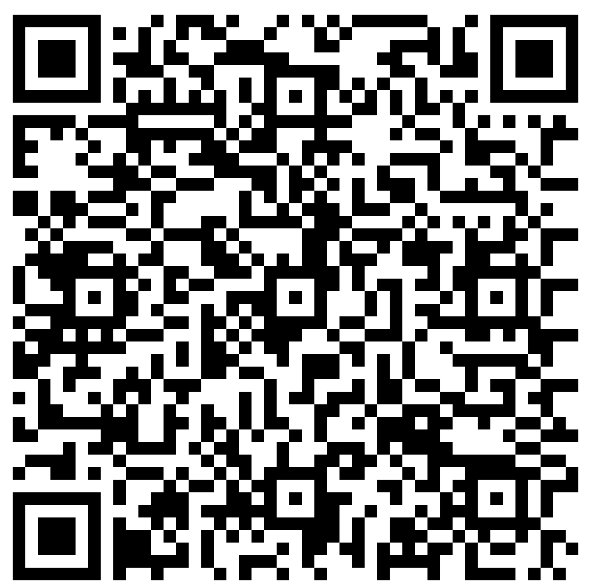
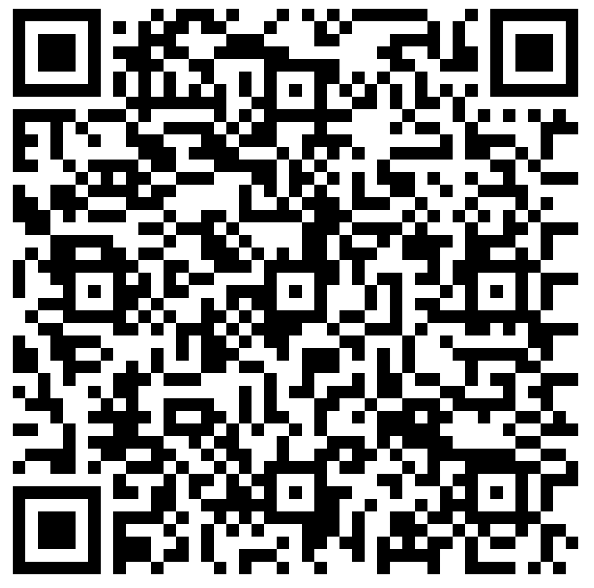
novo pix

diff --git a/src/app/features/billing/billing.ts b/src/app/features/billing/billing.ts
@@ -15,7 +15,7 @@ export class Billing {
   private toastService = inject(ToastService);
   private router = inject(Router);
   private readonly pixKey =
-    '00020101021126580014br.gov.bcb.pix0136efc7bd5e-a855-409c-9ccc-891a584b0e8e520400005303986540519.005802BR5913JORGE L ATTIE6009SAO PAULO62070503***6304DEF9';
+    '00020101021126580014br.gov.bcb.pix0136efc7bd5e-a855-409c-9ccc-891a584b0e8e520400005303986540512.905802BR5913JORGE L ATTIE6009SAO PAULO62070503***630438B7';
   readonly qrImagePath = 'assets/images/pix/pix.png';
 
   copying = signal(false);

diff --git a/src/app/features/landing/landing.html b/src/app/features/landing/landing.html
@@ -159,7 +159,7 @@
       <article class="landing-pricing__card landing-pricing__card--highlight">
         <span class="landing-pricing__badge">Plano atual</span>
         <h3>Dinway</h3>
-        <p class="landing-pricing__price">R$ 19<span>/mês</span></p>
+        <p class="landing-pricing__price">R$ 12,90<span>/mês</span></p>
         <ul>
           <li>Controle completo de transações e orçamento</li>
           <li>Cofres, metas e recorrências ilimitadas</li>

diff --git a/src/app/features/billing/billing.html b/src/app/features/billing/billing.html
@@ -2,7 +2,7 @@
   <div class="billing-card">
     <p class="billing-eyebrow">Pagamento mensal via PIX</p>
     <h1>Ative seu acesso</h1>
-    <p class="billing-price">R$ 19<span> pagamento mensal</span></p>
+    <p class="billing-price">R$ 12,90<span> pagamento mensal</span></p>
 
     <div class="billing-qr">
       <img [src]="qrImagePath" alt="QR Code de pagamento PIX" class="billing-qr__image" />
